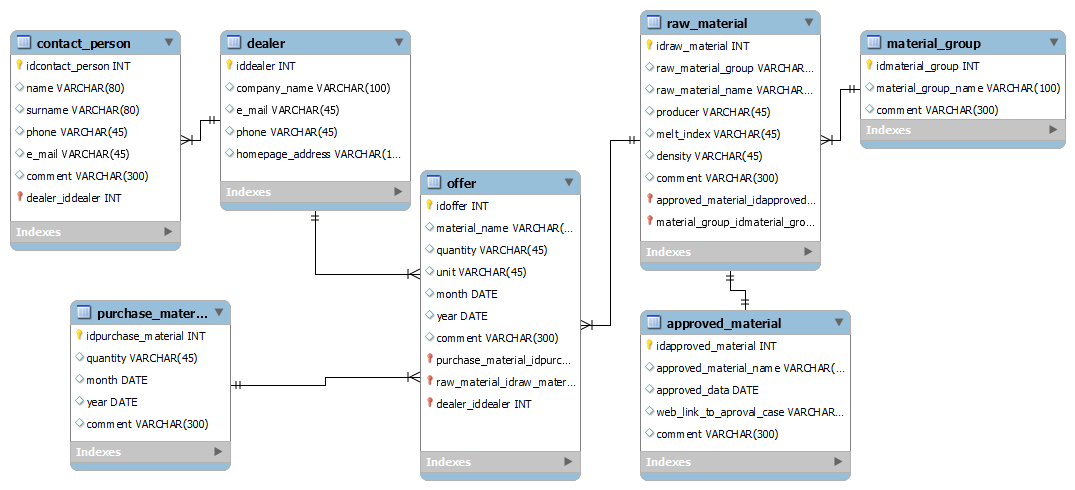
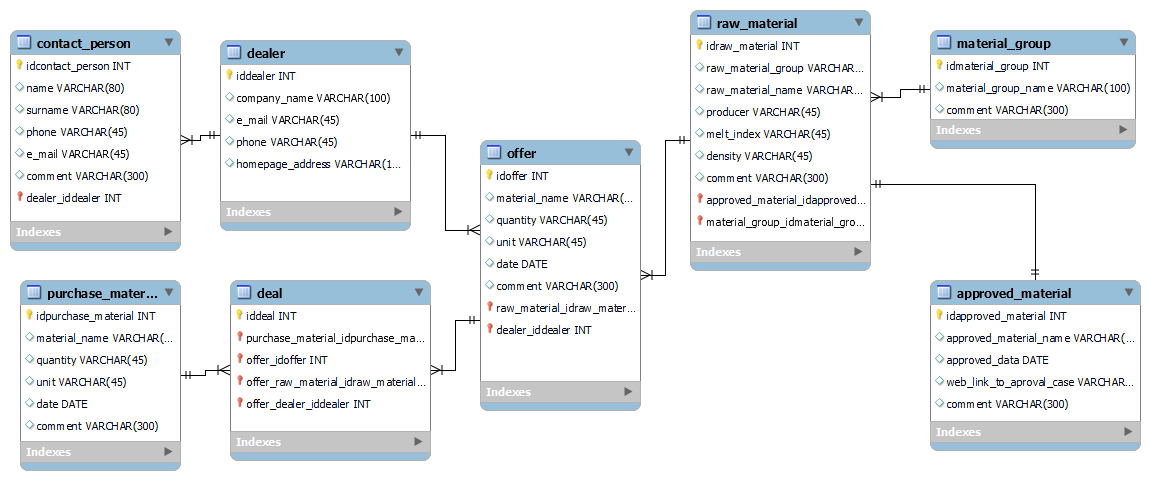
28_05
Add tables ver2

Changed region(s): [[0.0, 0.0312, 1.0, 1.0]]

diff --git a/src/Main/Java/model/RawMaterial.java b/src/Main/Java/model/RawMaterial.java
@@ -12,5 +12,90 @@ public class RawMaterial {
     @Column(name = "material_id")
     private int materialId;
 
+    @Column(name = "material_group")
+    private String materialGroup;
 
+    @Column(name = "material_name")
+    private String materialName;
+
+    @Column(name = "producer")
+    private String producer;
+
+    @Column(name = "melt_index")
+    private String meltIndex;
+
+    @Column(name = "density")
+    private String density;
+
+    @Column(name= "comment")
+    private String comment;
+
+    public int getMaterialId() {
+        return materialId;
+    }
+
+    public void setMaterialId(int materialId) {
+        this.materialId = materialId;
+    }
+
+    public String getMaterialGroup() {
+        return materialGroup;
+    }
+
+    public void setMaterialGroup(String materialGroup) {
+        this.materialGroup = materialGroup;
+    }
+
+    public String getMaterialName() {
+        return materialName;
+    }
+
+    public void setMaterialName(String materialName) {
+        this.materialName = materialName;
+    }
+
+    public String getProducer() {
+        return producer;
+    }
+
+    public void setProducer(String producer) {
+        this.producer = producer;
+    }
+
+    public String getMeltIndex() {
+        return meltIndex;
+    }
+
+    public void setMeltIndex(String meltIndex) {
+        this.meltIndex = meltIndex;
+    }
+
+    public String getDensity() {
+        return density;
+    }
+
+    public void setDensity(String density) {
+        this.density = density;
+    }
+
+    public String getComment() {
+        return comment;
+    }
+
+    public void setComment(String comment) {
+        this.comment = comment;
+    }
+
+    @Override
+    public String toString() {
+        return "RawMaterial{" +
+                "materialId=" + materialId +
+                ", materialGroup='" + materialGroup + '\'' +
+                ", materialName='" + materialName + '\'' +
+                ", producer='" + producer + '\'' +
+                ", meltIndex='" + meltIndex + '\'' +
+                ", density='" + density + '\'' +
+                ", comment='" + comment + '\'' +
+                '}';
+    }
 }

diff --git a/src/Main/Java/model/PurchaseMaterial.java b/src/Main/Java/model/PurchaseMaterial.java
@@ -11,5 +11,78 @@ public class PurchaseMaterial {
     @Column(name = "material_id")
     private int materialId;
 
+    @Column(name = "material_name")
+    private String materialName;
 
+    @Column(name = "quantity")
+    private String quantity;
+
+    @Column(name = "unit")
+    private String unit;
+
+    @Column(name = "date")
+    private String date;
+
+    @Column(name= "comment")
+    private String comment;
+
+    public int getMaterialId() {
+        return materialId;
+    }
+
+    public void setMaterialId(int materialId) {
+        this.materialId = materialId;
+    }
+
+    public String getMaterialName() {
+        return materialName;
+    }
+
+    public void setMaterialName(String materialName) {
+        this.materialName = materialName;
+    }
+
+    public String getQuantity() {
+        return quantity;
+    }
+
+    public void setQuantity(String quantity) {
+        this.quantity = quantity;
+    }
+
+    public String getUnit() {
+        return unit;
+    }
+
+    public void setUnit(String unit) {
+        this.unit = unit;
+    }
+
+    public String getDate() {
+        return date;
+    }
+
+    public void setDate(String date) {
+        this.date = date;
+    }
+
+    public String getComment() {
+        return comment;
+    }
+
+    public void setComment(String comment) {
+        this.comment = comment;
+    }
+
+    @Override
+    public String toString() {
+        return "PurchaseMaterial{" +
+                "materialId=" + materialId +
+                ", materialName='" + materialName + '\'' +
+                ", quantity='" + quantity + '\'' +
+                ", unit='" + unit + '\'' +
+                ", date='" + date + '\'' +
+                ", comment='" + comment + '\'' +
+                '}';
+    }
 }

diff --git a/src/Main/Java/model/Deal.java b/src/Main/Java/model/Deal.java
@@ -1,0 +1,10 @@
+package model;
+
+
+import javax.persistence.Entity;
+import javax.persistence.Table;
+
+@Entity
+@Table(name = "deal")
+public class Deal {
+}

diff --git a/src/Main/Java/persistance/RepositoryDeal.java b/src/Main/Java/persistance/RepositoryDeal.java
@@ -1,0 +1,4 @@
+package persistance;
+
+public class RepositoryDeal {
+}
